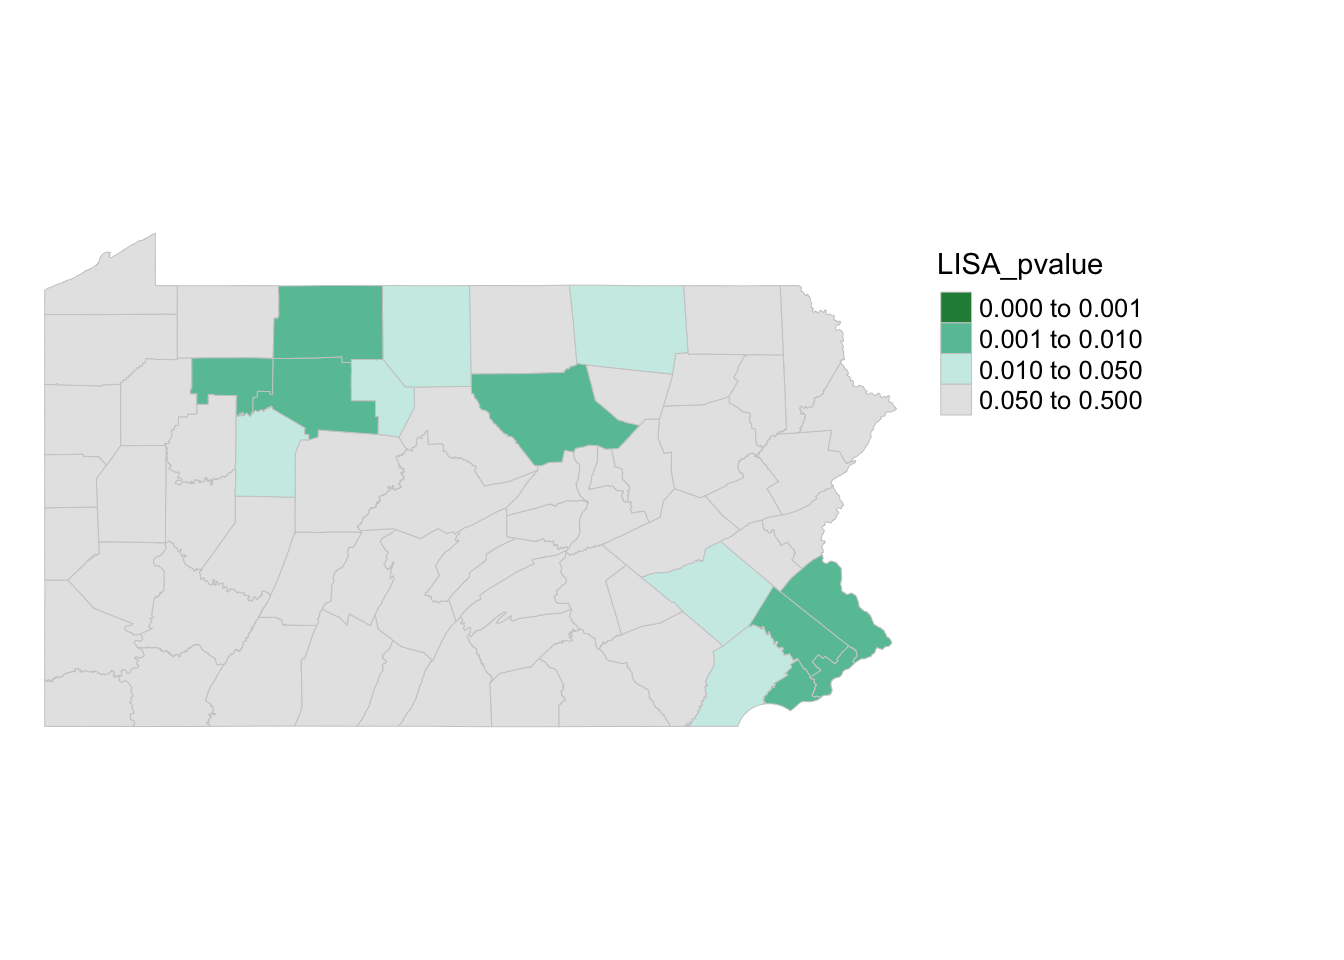
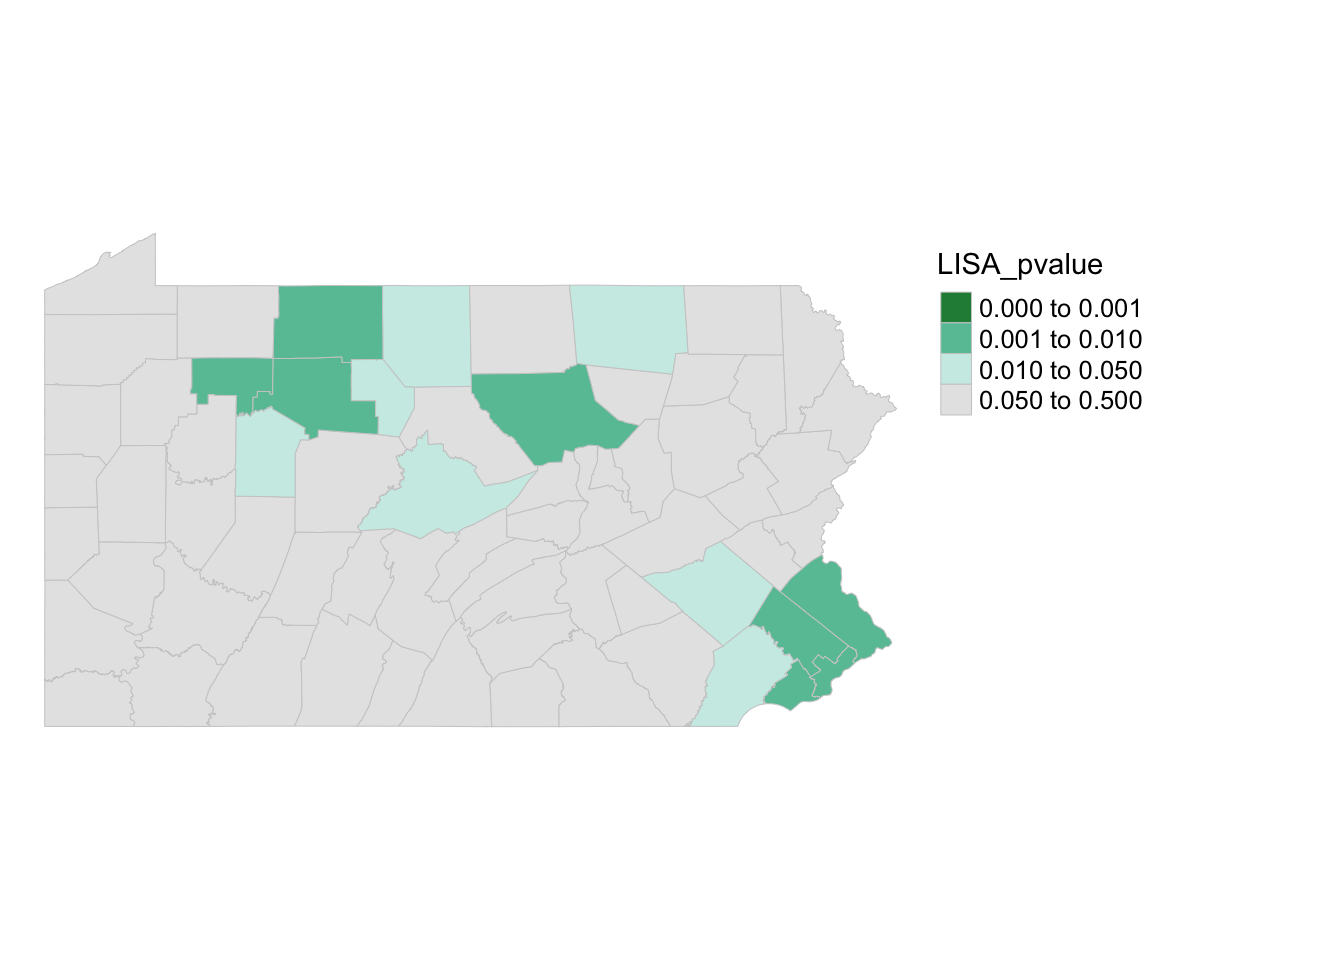
plot 1

Changed region(s): [[0.25, 0.4375, 0.4062, 0.5625]]

diff --git a/docs/pg_364Lab5_MoranLISA.html b/docs/pg_364Lab5_MoranLISA.html
@@ -1390,8 +1390,50 @@ tm_shape(PennACS_sf) +
 <p>Here you can see that there are unusual spatial patterns in the north
 West and towards Philadelphia. But it does NOT show you if the
 population is more clustered or less clustered than expected.</p>
-<p>I have marked these on the Moran’s scatterplot - see code below.</p>
-<p>CODE TO COME, REFRESH YOUR PAGE!</p>
+<p>I have marked these on the Moran’s scatterplot - see code below.
+Sorry it’s long! It’s rather custom but should work if you copy/paste
+<strong>remembering to change total.pop to your column of
+choice</strong></p>
+<pre class="r"><code># Add this library to the top of your script and run
+library(RColorBrewer)
+
+
+# Step 1: Calculate the spatial lag
+# CHANGE total.pop TO YOUR COLUMN NAME
+
+PennACS_sf$spatial_lag &lt;- lag.listw(QueenWeights, 
+                                    PennACS_sf$total.pop,  # change this
+                                    zero.policy = TRUE)
+
+
+#--------------------------------------------------------
+# Step 2: Normalize total population and spatial lag
+# CHANGE total.pop TO YOUR COLUMN NAME
+
+plot_data &lt;- data.frame(
+  total_pop = scale(PennACS_sf$total.pop), # change this
+  spatial_lag = scale(PennACS_sf$spatial_lag),
+  LISA_pvalue = PennACS_sf$LISA_pvalue)
+
+#--------------------------------------------------------
+# Step 3: Create the Moran plot with ggplot2
+# CHANGE total.pop TO YOUR COLUMN NAME
+
+ggplot(plot_data, aes(x = total_pop, # change this
+                      y = spatial_lag, 
+                      color = LISA_pvalue)) + geom_point(size = 2) +
+  
+  scale_color_gradientn(colors = c(rev(brewer.pal(5, &quot;BuGn&quot;)), &quot;#ccece6&quot;),  
+    values = c(0, 0.01, 0.05, 0.1, 0.2, 1),name = &quot;LISA p-value&quot;,
+    limits = c(0, max(plot_data$LISA_pvalue))) +
+  
+  labs(x = &quot;Normalized Total Population&quot;, 
+       y = &quot;Normalized Spatial Lag of Total Population&quot;, 
+       title = &quot;Normalized Moran Plot with LISA p-value Coloring&quot;) +
+  theme_minimal() +
+  geom_vline(xintercept = 0, linetype = &quot;dotted&quot;, color = &quot;black&quot;) +  
+  geom_hline(yintercept = 0, linetype = &quot;dotted&quot;, color = &quot;black&quot;)    </code></pre>
+<p><img src="pg_364Lab5_MoranLISA_files/figure-html/unnamed-chunk-27-1.png" width="672" /></p>
 <p><br></p>
 <p><strong>Looking at the actual values.</strong></p>
 <p>To do this we plot the actual values - e.g. we are plotting the
@@ -1417,7 +1459,7 @@ tm_shape(PennACS_sf) +
                            col = &quot;Ii&quot;, palette=pal2) +
                tm_legend(outside = TRUE, text.size = .8) +
                tm_layout(frame = FALSE)</code></pre>
-<p><img src="pg_364Lab5_MoranLISA_files/figure-html/unnamed-chunk-27-1.png" width="672" /></p>
+<p><img src="pg_364Lab5_MoranLISA_files/figure-html/unnamed-chunk-28-1.png" width="672" /></p>
 <p>So we can see that there are significant “hotspots” around
 Philadelphia (counties that have higher than average populations
 compared surrounded by counties with higher than average populations).
@@ -1425,7 +1467,9 @@ And cold spots around the north west (counties that have <em>lower</em>
 than average populations compared surrounded by counties with
 <em>lower</em> than average populations. However, there are not any
 significant spatial outliers (HIGH-LOW) or (LOW-HIGH).</p>
-<p>I have marked these on the Moran’s scatterplot - see code below.</p>
+<p>I have marked these on the Moran’s scatterplot - see code below.
+Firstly without taking into account significance, then secondly, taking
+into account the p-value (e.g. no</p>
 <p>CODE TO COME, REFRESH YOUR PAGE!</p>
 <p><br><br></p>
 </details>
@@ -1447,7 +1491,7 @@ size..)</strong></li>
 <div id="i.-advanced" class="section level2">
 <h2>I. Advanced</h2>
 <p>You are now going to make a mini tutorial on some new data.</p>
-<p><strong>CODE TO COME REFRESH YOUR PAGE!</strong></p>
+<p>CODE TO COME REFRESH YOUR PAGE!</p>
 </div>
 <div id="submitting-lab-5" class="section level2">
 <h2>SUBMITTING LAB 5</h2>
